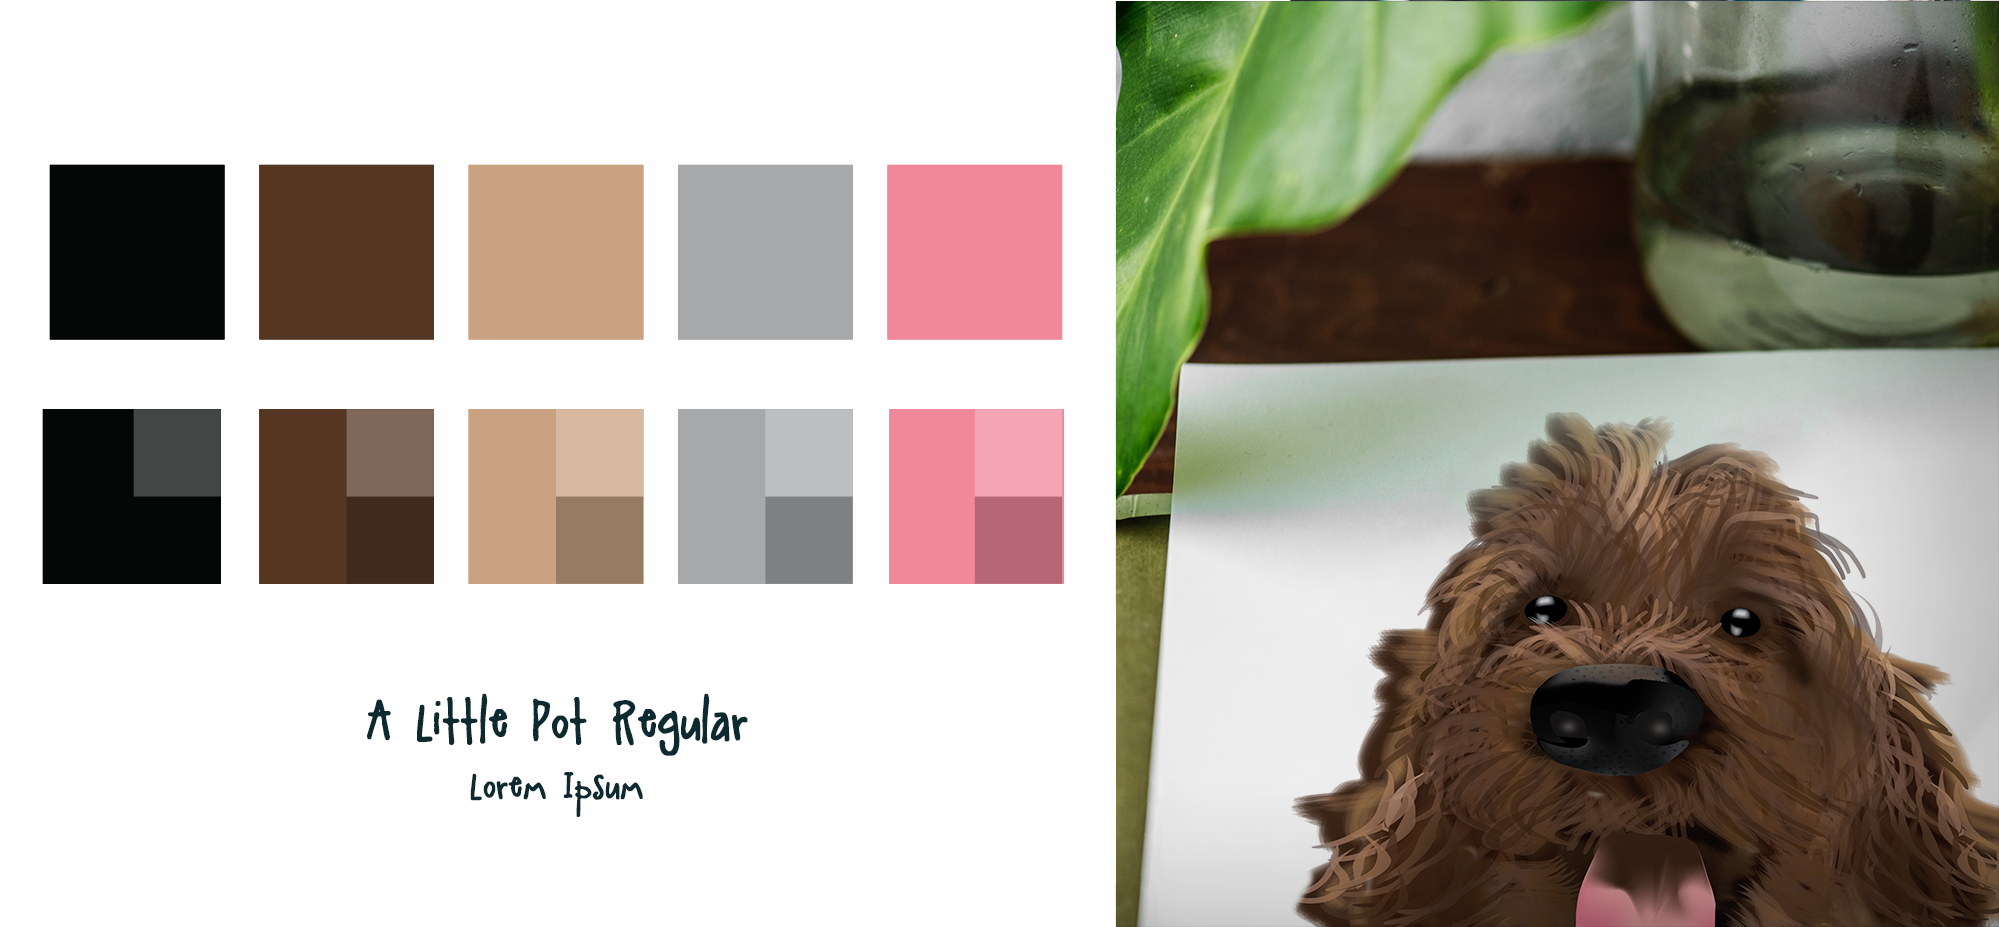
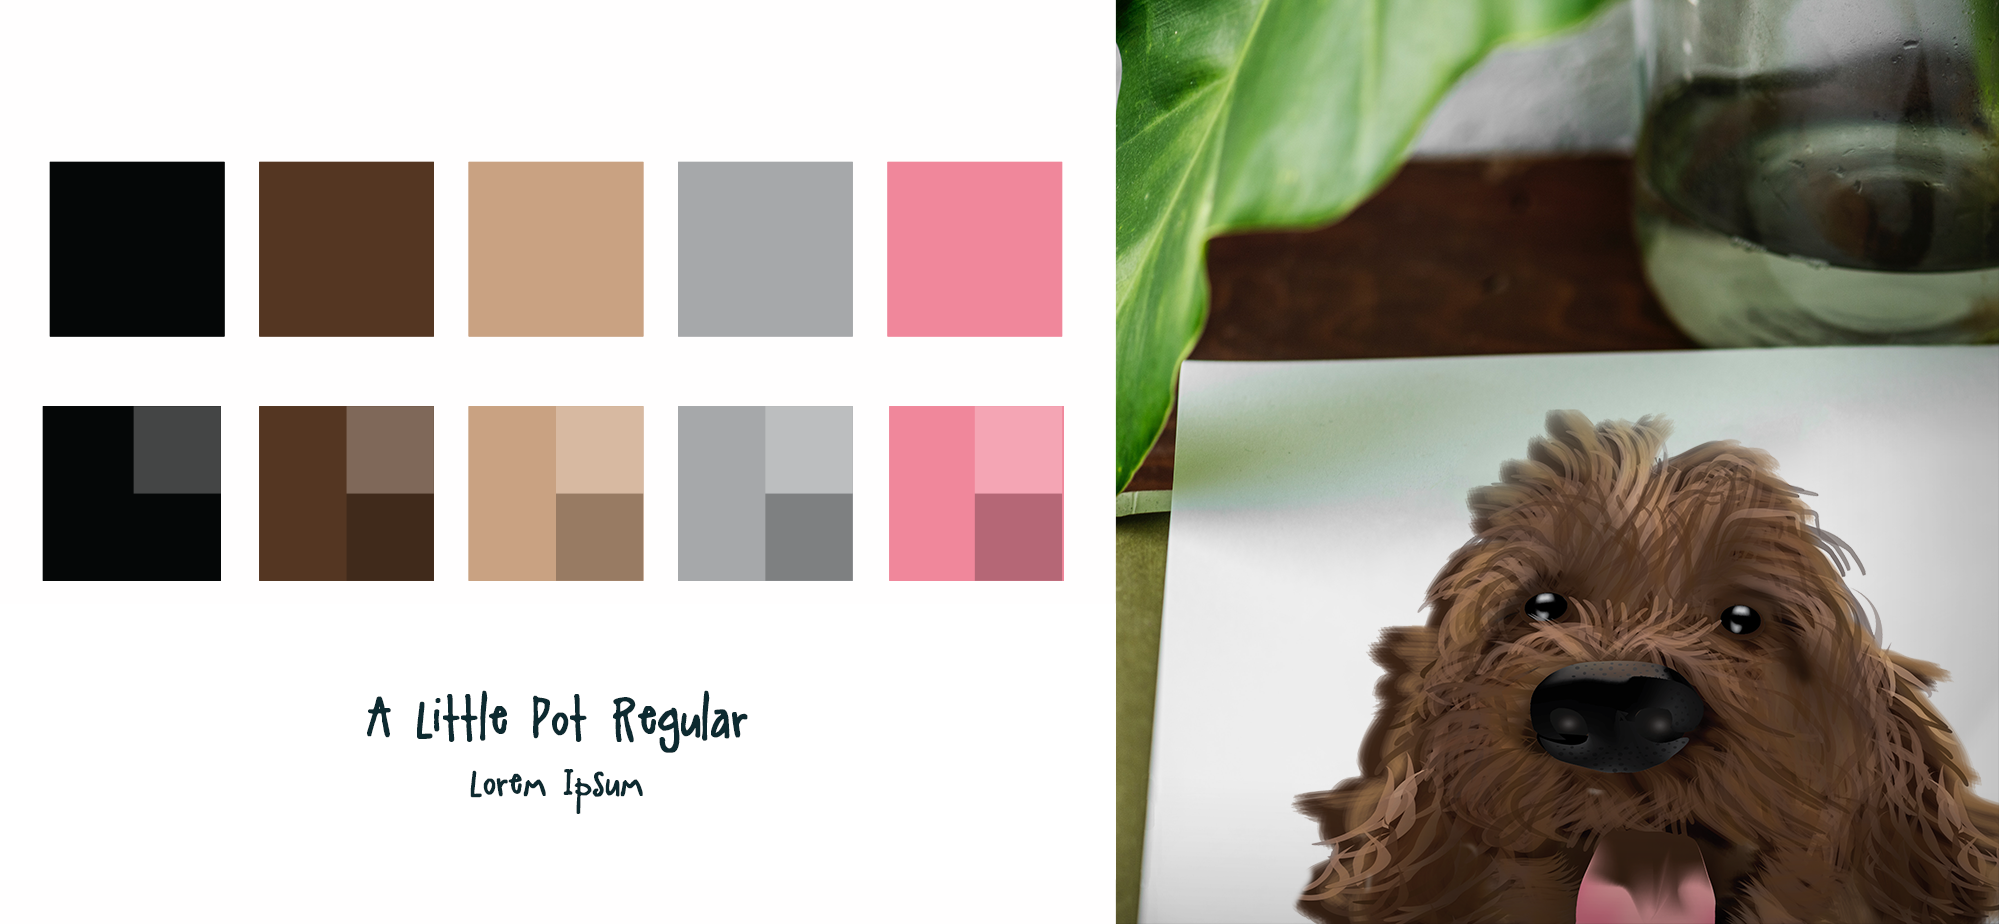
updating image styling

diff --git a/assets/css/main.css b/assets/css/main.css
@@ -1977,7 +1977,7 @@ cite {
     padding-bottom: 2rem; }
     .post .entry_content .post_image_addl img {
       width: 100%;
-      margin-top: -2px; }
+      margin-top: -3px; }
     .post .entry_content a, .post .entry_content a:link, .post .entry_content a:visited {
       color: #1d8487;
       text-decoration: none; }

diff --git a/assets/css/sass/_post.sass b/assets/css/sass/_post.sass
@@ -46,7 +46,7 @@
     .post_image_addl 
       img
         width: 100%
-        margin-top: -2px
+        margin-top: -3px
     a, a:link, a:visited
       color: $highlight
       text-decoration: none
